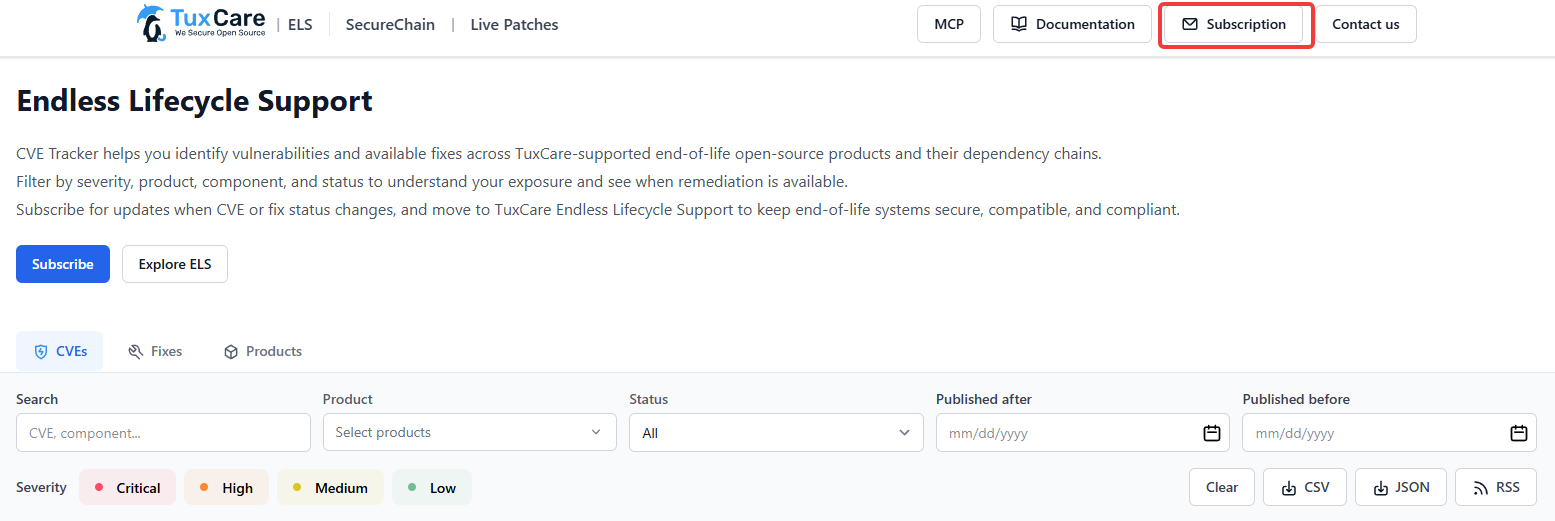
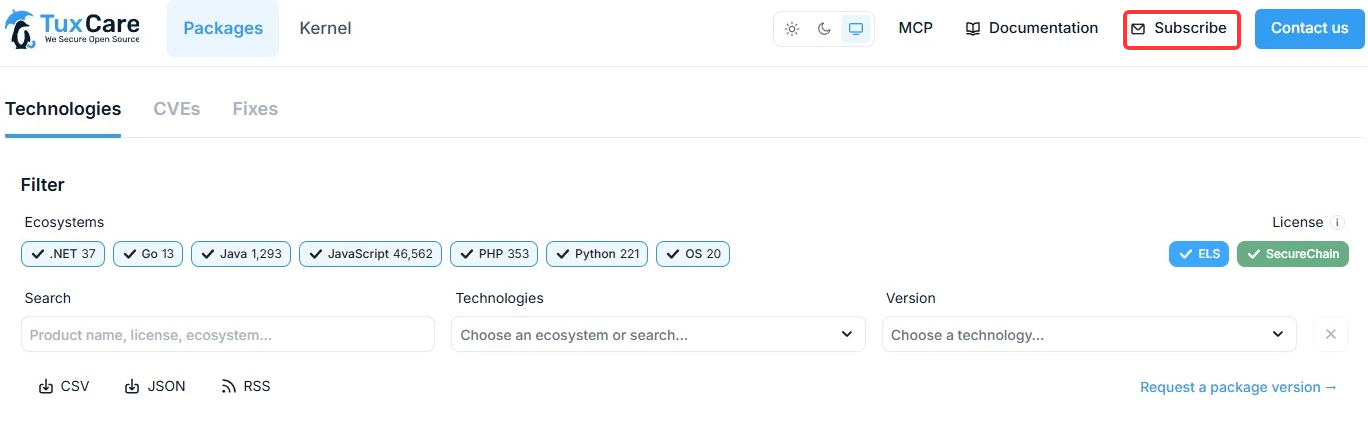
ELSDOC-398, step1 updated

diff --git a/docs/els-for-applications/tracking-security-updates/README.md b/docs/els-for-applications/tracking-security-updates/README.md
@@ -8,9 +8,9 @@ TuxCare publishes vulnerability and fix information in the CVE Tracker. You can 
 
 1. Open the CVE Tracker
 
-   Go to [tuxcare.com/cve-tracker](https://tuxcare.com/cve-tracker/) and select **Subscription** in the top bar.
+   Go to [tuxcare.com/cve-tracker](https://tuxcare.com/cve-tracker/) and select **Subscribe** in the top bar.
 
-   ![CVE Tracker top bar with the Subscription button highlighted](/images/subscription-step1.webp)
+   ![CVE Tracker top bar with the Subscribe button](/images/subscription-step1.webp)
 
 2. Fill in your details
 

diff --git a/docs/els-for-libraries/tracking-security-updates/README.md b/docs/els-for-libraries/tracking-security-updates/README.md
@@ -8,9 +8,9 @@ TuxCare publishes vulnerability and fix information in the CVE Tracker. You can 
 
 1. Open the CVE Tracker
 
-   Go to [tuxcare.com/cve-tracker](https://tuxcare.com/cve-tracker/) and select **Subscription** in the top bar.
+   Go to [tuxcare.com/cve-tracker](https://tuxcare.com/cve-tracker/) and select **Subscribe** in the top bar.
 
-   ![CVE Tracker top bar with the Subscription button highlighted](/images/subscription-step1.webp)
+   ![CVE Tracker top bar with the Subscribe button](/images/subscription-step1.webp)
 
 2. Fill in your details
 

diff --git a/docs/els-for-runtimes/tracking-security-updates/README.md b/docs/els-for-runtimes/tracking-security-updates/README.md
@@ -8,9 +8,9 @@ TuxCare publishes vulnerability and fix information in the CVE Tracker. You can 
 
 1. Open the CVE Tracker
 
-   Go to [tuxcare.com/cve-tracker](https://tuxcare.com/cve-tracker/) and select **Subscription** in the top bar.
+   Go to [tuxcare.com/cve-tracker](https://tuxcare.com/cve-tracker/) and select **Subscribe** in the top bar.
 
-   ![CVE Tracker top bar with the Subscription button highlighted](/images/subscription-step1.webp)
+   ![CVE Tracker top bar with the Subscribe button](/images/subscription-step1.webp)
 
 2. Fill in your details
 

diff --git a/docs/els-for-os/tracking-security-updates/README.md b/docs/els-for-os/tracking-security-updates/README.md
@@ -10,9 +10,9 @@ notified by email, or follow an RSS feed in a feed reader or a script.
 1. Open the CVE Tracker
 
    Go to [tuxcare.com/cve-tracker](https://tuxcare.com/cve-tracker/) and select
-   **Subscription** in the top bar.
+   **Subscribe** in the top bar.
 
-   ![CVE Tracker top bar with the Subscription button highlighted](/images/subscription-step1.webp)
+   ![CVE Tracker top bar with the Subscribe button](/images/subscription-step1.webp)
 
 2. Fill in your details
 
